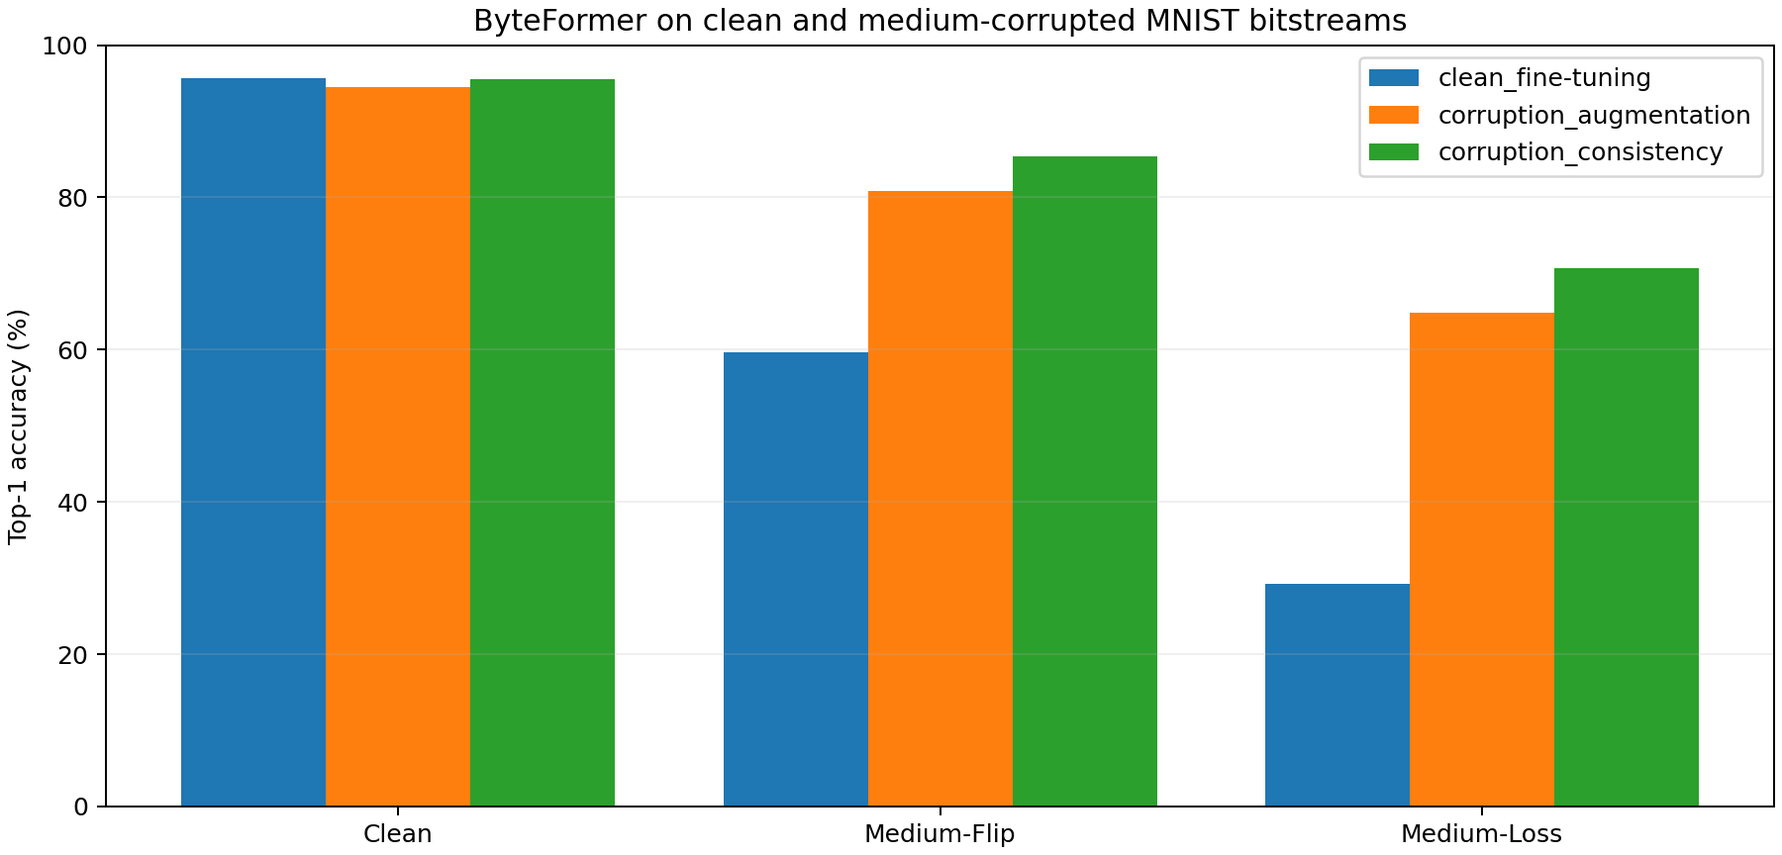
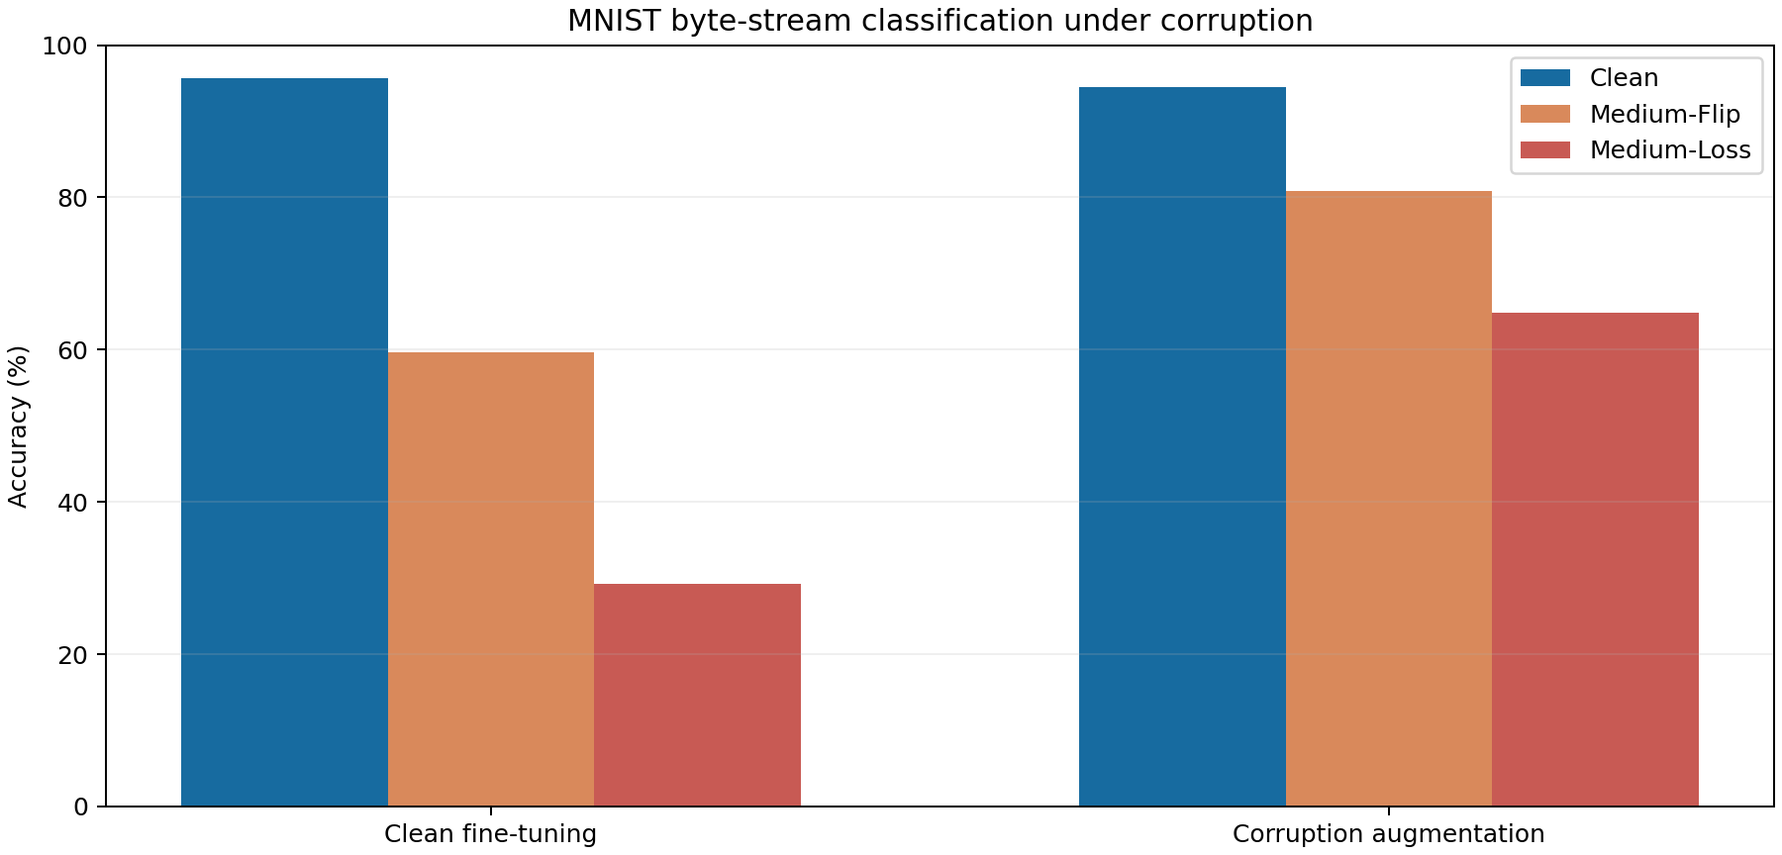
Remove consistency bonus experiment

diff --git a/tools/build_slides.py b/tools/build_slides.py
@@ -289,17 +289,23 @@ def main():
     rect(s,7.02,4.31,5.18,1.72,LIGHT,rounded=True)
     text(s,7.24,4.47,4.74,1.38,'比较内容\n· 验证集准确率与训练时间\n· 损失曲线和收敛速度\n· 参数变化带来的收益与代价',17)
     text(s,.9,6.30,11.35,.4,'报告中列出两次设置及结果，并说明比较结论。',16,GRAY)
-    # 16. AutoDL and common problems combined.
-    s=d.slide('15 AutoDL运行与常见问题')
-    codebox(s,.78,1.94,6.13,3.55,f'cd /root/autodl-tmp\ngit clone {REPO}.git\ncd byteformer-mnist-course\npython -m pip install -r requirements.txt\npython prepare.py\npython train_course_subset.py --method clean \\\n  --epochs "$EPOCHS" --batch-size "$BATCH_SIZE" \\\n  --clean-augmentations --output outputs/course_clean',12)
-    problems=[('没有使用GPU','检查Kaggle加速器或AutoDL实例'),('缺少Python包','重新安装requirements.txt'),('显存不足','减小batch size并记录实际值'),('输出目录已有文件','改用新的output目录')]
+    # 16. Common environment and runtime problems.
+    s=d.slide('15 运行中的常见问题','下面的问题在环境部署和运行时较常见。')
+    problems=[
+        ('Python 命令找不到','安装 Python 3.9—3.12，\n重新打开终端后再运行。'),
+        ('找不到 torch','先安装 PyTorch，\n再执行 requirements.txt。'),
+        ('依赖安装失败','在项目目录重新运行\npython -m pip install -r requirements.txt'),
+        ('GPU 未被识别','检查 CUDA；没有 GPU 时，\n程序会自动使用 CPU。'),
+        ('权重下载失败','检查网络连接，\n重新运行 python prepare.py。'),
+        ('显存或内存不足','减小 batch size，\n关闭其他占用资源的程序。'),
+    ]
     for i,(heading,body) in enumerate(problems):
-        y=2.0+i*.91
-        rect(s,7.25,y,5.0,.75,LIGHT,rounded=True)
-        text(s,7.43,y+.11,1.78,.3,heading,16,BLUE,True)
-        text(s,9.17,y+.11,2.88,.43,body,15)
-    text(s,.88,5.80,6.05,.79,'运行前在Terminal中设置EPOCHS和BATCH_SIZE；\n实验结束后下载outputs并在控制台关机。',17,GRAY)
-    link(s,7.34,6.00,4.8,'AutoDL官方快速开始','https://www.autodl.com/docs/quick_start/',16)
+        x=.78+(i%2)*6.17; y=2.04+(i//2)*1.04
+        rect(s,x,y,5.78,.83,LIGHT,rounded=True)
+        text(s,x+.20,y+.14,2.03,.28,heading,17,BLUE,True)
+        text(s,x+2.28,y+.12,3.22,.54,body,14)
+    rect(s,.78,5.57,11.78,.83,'DDEBF3',rounded=True)
+    text(s,1.00,5.72,11.34,.46,'环境自检：python --version    /    python -c "import torch; print(torch.__version__); print(torch.cuda.is_available())"\n先完成环境自检，再开始训练；遇到报错时保留完整错误信息。',14,BLUE)
     # 17. Submission requirements.
     s=d.slide('16 实验结果与报告提交')
     text(s,.86,1.98,6.03,3.71,'① 保存训练曲线和测试结果。\n② 完成一次参数对比。\n③ 展示单图预测或典型错例。\n④ 填写实验环境、命令、参数与结果分析。\n⑤ 打包代码、结果图和实验报告。\n\n数据集和Python环境不需要重复提交。',20)
@@ -311,25 +317,29 @@ def main():
         text(s,7.29,y+.05,4.75,.35,item,17)
     text(s,.9,6.31,11.43,.57,'报告分别列出训练集、验证集和测试集的用途与结果。',17,RED)
     # 18. Bonus corrupted-bitstream task with concrete directions.
-    s=d.slide('17 加分项：损坏码流分类','课程提供与干净测试集对应的损坏测试数据，共包含以下两种基本损坏。')
+    s=d.slide('17 加分项：损坏码流分类','以下内容均为加分项；课程提供与干净测试集对应的两种损坏测试数据。')
     rect(s,1.05,2.13,5.18,1.50,'F6E5E1',rounded=True)
     text(s,1.24,2.31,4.80,.39,'Bit flip｜比特翻转',21,RED,True,PP_ALIGN.CENTER)
     text(s,1.25,2.86,4.78,.56,'翻转选中字节的1位（长度不变）\n10100110 → 10100010',14,INK,align=PP_ALIGN.CENTER)
     rect(s,7.10,2.13,5.18,1.50,'F4EAD8',rounded=True)
     text(s,7.29,2.31,4.80,.39,'Byte loss｜字节丢失',21,'A46A25',True,PP_ALIGN.CENTER)
     text(s,7.30,2.86,4.78,.56,'删除字节，后续字节前移\nFF D8 A1 3C → FF D8 3C',14,INK,align=PP_ALIGN.CENTER)
-    text(s,.83,3.93,2.75,.4,'可以尝试的方向',21,BLUE,True)
-    directions=[('① 结果分析','比较Clean、Flip、Loss，观察哪类损坏影响更大。'),('② 损坏增强','训练时随机加入bit flip和byte loss样本。'),('③ 一致性约束','让同一图像的干净码流与损坏码流输出接近。')]
+    text(s,.88,3.78,2.65,.28,'加分评估',15,BLUE,True)
+    codebox(s,.82,4.02,5.73,.92,'python evaluate_course_corruption.py \\\n+  --checkpoint outputs/course_clean/best.pt \\\n+  --output outputs/course_clean_eval',10)
+    text(s,6.83,3.78,2.65,.28,'加分：损坏增强训练',15,BLUE,True)
+    codebox(s,6.77,4.02,5.73,.92,'BONUS_EPOCHS=你的轮数; BONUS_BATCH_SIZE=你的batch大小\npython train_course_subset.py --method augmentation \\\n  --epochs "$BONUS_EPOCHS" --batch-size "$BONUS_BATCH_SIZE" \\\n  --clean-augmentations --output outputs/course_corruption_aug',9)
+    text(s,.83,5.12,2.75,.3,'加分内容',19,BLUE,True)
+    directions=[('① 损坏增强','训练时随机加入 bit flip 和 byte loss 样本。'),('② 损坏测试','评估脚本自动输出 Clean、Medium-Flip、Medium-Loss。')]
     for i,(heading,body) in enumerate(directions):
-        x=.82+i*4.02
-        rect(s,x,4.42,3.72,1.18,LIGHT,rounded=True)
-        text(s,x+.14,4.57,3.44,.33,heading,17,BLUE,True)
-        text(s,x+.14,4.96,3.44,.52,body,14)
-    text(s,.86,5.91,2.22,.35,'参考资料：',15,GRAY,True)
-    link(s,2.25,5.89,2.55,'CBSU-ALLM','https://doi.org/10.1016/j.patcog.2026.114151',14)
-    link(s,4.65,5.89,2.25,'BRACE','https://arxiv.org/abs/2608.15695',14)
-    link(s,6.65,5.89,2.25,'BSCV','https://arxiv.org/abs/2309.13890',14)
-    text(s,.87,6.37,11.45,.34,'提交改进方法、训练设置以及三类测试结果；可自行组合其他增强或鲁棒训练方法。',15,GRAY)
+        x=.82+i*6.02
+        rect(s,x,5.48,5.72,.95,LIGHT,rounded=True)
+        text(s,x+.14,5.61,5.42,.27,heading,16,BLUE,True)
+        text(s,x+.14,5.93,5.42,.41,body,12.5)
+    text(s,.86,6.55,1.82,.3,'参考资料：',13,GRAY,True)
+    link(s,1.95,6.53,1.95,'CBSU-ALLM','https://doi.org/10.1016/j.patcog.2026.114151',13)
+    link(s,4.02,6.53,1.40,'BRACE','https://arxiv.org/abs/2608.15695',13)
+    link(s,5.58,6.53,1.40,'BSCV','https://arxiv.org/abs/2309.13890',13)
+    text(s,7.15,6.54,5.2,.3,'提交训练设置和三类测试结果。',13,GRAY)
     # 19. References and entry points.
     s=d.slide('18 配套材料与参考文献','实验步骤、命令和数据说明见课程仓库与Notebook。')
     sources=[

diff --git a/train_course_subset.py b/train_course_subset.py
@@ -71,15 +71,6 @@ def evaluate(model, loader, device, corrupt=None, seed=0):
             'correct': correct, 'samples': count}
 
 
-def symmetric_kl(a, b, temperature=2.0):
-    log_a = nn.functional.log_softmax(a / temperature, dim=1)
-    log_b = nn.functional.log_softmax(b / temperature, dim=1)
-    prob_a, prob_b = log_a.exp(), log_b.exp()
-    value = (nn.functional.kl_div(log_a, prob_b, reduction='batchmean') +
-             nn.functional.kl_div(log_b, prob_a, reduction='batchmean')) / 2
-    return value * temperature**2
-
-
 def save_curves(output, history):
     import matplotlib
     matplotlib.use('Agg')
@@ -106,7 +97,7 @@ def save_curves(output, history):
 
 def parser():
     result = argparse.ArgumentParser(description=__doc__)
-    result.add_argument('--method', choices=['clean', 'augmentation', 'consistency'],
+    result.add_argument('--method', choices=['clean', 'augmentation'],
                         default='clean')
     result.add_argument('--epochs', type=int, default=12)
     result.add_argument('--batch-size', type=int, default=32)
@@ -119,8 +110,6 @@ def parser():
     result.add_argument('--freeze-backbone-epochs', type=int, default=0)
     result.add_argument('--clean-augmentations', action='store_true',
                         help='sample valid rotated/shifted JPEG views during training')
-    result.add_argument('--consistency-weight', type=float, default=0.5)
-    result.add_argument('--feature-weight', type=float, default=0.1)
     result.add_argument('--seed', type=int, default=42)
     result.add_argument('--device', default='auto')
     result.add_argument('--threads', type=int, default=4)
@@ -209,26 +198,6 @@ def main():
                 logits = model(damaged.to(device))
                 loss = nn.functional.cross_entropy(
                     logits, labels, label_smoothing=args.label_smoothing)
-            else:
-                weak = corrupt_batch(clean, 'weak',
-                                     args.seed + epoch * 200000 + step * 2)
-                strong = corrupt_batch(clean, 'strong',
-                                       args.seed + epoch * 200000 + step * 2 + 1)
-                weak_features = model.forward_features(weak.to(device))
-                strong_features = model.forward_features(strong.to(device))
-                weak_logits = model.classifier(weak_features)
-                strong_logits = model.classifier(strong_features)
-                classification = (nn.functional.cross_entropy(
-                    weak_logits, labels, label_smoothing=args.label_smoothing) +
-                    nn.functional.cross_entropy(
-                        strong_logits, labels,
-                        label_smoothing=args.label_smoothing)) / 2
-                alignment = (1 - nn.functional.cosine_similarity(
-                    weak_features, strong_features, dim=1)).mean()
-                loss = (classification + args.consistency_weight *
-                        symmetric_kl(weak_logits, strong_logits) +
-                        args.feature_weight * alignment)
-                logits = (weak_logits + strong_logits) / 2
             if not torch.isfinite(loss):
                 raise RuntimeError('Non-finite training loss')
             loss.backward()

diff --git a/README.md b/README.md
@@ -137,7 +137,7 @@ python train_course_subset.py \
 - `Medium-Flip`：选中一个字节，随机翻转其中一位，码流长度不变。
 - `Medium-Loss`：删除选中的字节，后续字节前移。
 
-评估脚本会自动计算 Clean、Medium-Flip 和 Medium-Loss 三类准确率。基础任务只需完成干净测试集结果；下面两种训练方法属于加分项。
+评估脚本会自动计算 Clean、Medium-Flip 和 Medium-Loss 三类准确率。基础任务只需完成干净测试集结果；损坏增强训练属于加分项。
 
 ### 加分项一：损坏增强训练
 
@@ -158,27 +158,6 @@ python train_course_subset.py \
 python evaluate_course_corruption.py \
   --checkpoint "$AUG_OUTPUT/best.pt" \
   --output "${AUG_OUTPUT}_eval"
-```
-
-### 加分项二：一致性约束训练
-
-训练完成后自动评估三类测试集：
-
-```bash
-read -r -p "请输入训练轮数: " CONSISTENCY_EPOCHS
-read -r -p "请输入 batch size: " CONSISTENCY_BATCH_SIZE
-
-CONSISTENCY_OUTPUT=outputs/bonus_consistency
-
-python train_course_subset.py \
-  --method consistency \
-  --epochs "$CONSISTENCY_EPOCHS" \
-  --batch-size "$CONSISTENCY_BATCH_SIZE" \
-  --clean-augmentations \
-  --output "$CONSISTENCY_OUTPUT" && \
-python evaluate_course_corruption.py \
-  --checkpoint "$CONSISTENCY_OUTPUT/best.pt" \
-  --output "${CONSISTENCY_OUTPUT}_eval"
 ```
 
 背景与方法资料见 [加分项参考资料](research/04_bonus_corrupted_bitstream_references.md)，其中包括 CBSU-ALLM、BRACE、BSCV、ByteAction 等工作。
@@ -210,12 +189,42 @@ python prepare.py
 
 ## 提交内容
 
-1. 实验报告，写明环境、轮数、batch size、命令和数据划分。
-2. 基础训练与参数对比的 `metrics.json`、`history.csv` 和 `curves.png`。
-3. 独立测试结果、单图预测或典型错例。
-4. 对训练曲线、验证结果、测试结果和参数对比的分析。
+### 基础任务（必须提交，完成后即达标）
 
-Notebook 最后一格会把 JSON、CSV、PNG 和预测数组打包为 `byteformer_mnist_results.zip`。大型 checkpoint 不放入压缩包。
+请提交一个压缩包，命名为 `学号_姓名_码流图像分类.zip`，内容如下：
+
+```text
+学号_姓名_码流图像分类/
+├── 实验报告.pdf
+├── course_clean/
+│   ├── metrics.json
+│   ├── history.csv
+│   ├── curves.png
+│   └── prediction_single.png
+├── course_clean_eval/
+│   ├── evaluation.json
+│   ├── accuracy.csv
+│   └── accuracy.png
+├── comparison/
+│   ├── metrics.json
+│   ├── history.csv
+│   └── curves.png
+```
+
+实验报告至少写明：运行环境、训练轮数、batch size、实际命令、训练/验证/测试划分、曲线变化、参数对比、单图预测和一个错例分析。
+
+### 加分项（完成哪一项，就在压缩包中加入对应结果目录）
+
+```text
+bonus_augmentation/
+bonus_augmentation_eval/
+```
+
+报告中填写 Clean、Medium-Flip、Medium-Loss 三类准确率，并写明使用的加分方法。
+
+### 不需要提交
+
+不需要提交整份数据集、`.venv/`、`best.pt` 等大型模型文件、完整 GitHub 仓库或课程 PPT。Notebook 最后一格生成的 `byteformer_mnist_results.zip` 只包含实验结果，仍需与实验报告一起整理到上述压缩包中。
 
 ## 参考文献
 

diff --git a/research/04_bonus_corrupted_bitstream_references.md b/research/04_bonus_corrupted_bitstream_references.md
@@ -7,8 +7,7 @@
 1. 使用课程提供的 Medium-Flip、Medium-Loss 测试集评估干净模型。
 2. 比较两种损坏下的准确率，说明 bit flip 与 byte loss 的区别。
 3. 在训练阶段加入随机码流损坏增强。
-4. 对同一样本的轻度和重度损坏视图加入预测一致性或特征对齐约束。
-5. 与干净训练基线比较干净准确率、受损平均准确率和提升幅度。
+4. 与干净训练基线比较干净准确率、受损平均准确率和提升幅度。
 
 ## 2. 主要参考工作
 
@@ -17,7 +16,7 @@
 | CBSU-ALLM | 受损图像码流语义理解 | 图像码流受损后绕过传统解码流程进行语义分析 | *Corrupted bitstream semantic understanding by adaptive-modal large language models*，[DOI](https://doi.org/10.1016/j.patcog.2026.114151) |
 | BRACE | 受损图像码流动作识别 | RBCS 四参数损坏模型 `(S, P, p_f, q)`；bit flip、byte loss 与不同强度设置 | *Bitstream Action Recognition is Byte Modeling*，[论文](https://arxiv.org/abs/2608.15695) |
 | BSCV | 受损视频恢复 | 视频码流中的连续片段丢失、损坏位置与长度设置 | *Bitstream-Corrupted Video Recovery: A Novel Benchmark Dataset and Method*，[论文](https://arxiv.org/abs/2309.13890)，[代码](https://github.com/LIUTIGHE/BSCV-Dataset) |
-| ByteAction | 受损图像码流动作识别 | 双损坏视图、码流模式增强、预测一致性训练 | *ByteAction: Byte-space Action Recognition Foundation Model*，[论文](https://arxiv.org/abs/2608.22760) |
+| ByteAction | 受损图像码流动作识别 | 双损坏视图、码流模式增强 | *ByteAction: Byte-space Action Recognition Foundation Model*，[论文](https://arxiv.org/abs/2608.22760) |
 | Cibic | 受损图像码流描述 | 标准解码失败时直接从 JPEG 字节生成语义描述 | *Cibic: Pixel-free foundation model for robust corrupted image bitstream captioning*，[DOI](https://doi.org/10.1016/j.patcog.2026.114238) |
 | VUB | 视频码流内容理解 | 长视频码流分块建模和跨编码格式知识蒸馏 | *Learn to Understand Video from Bitstream Modeling and Distillation*，本地稿件 |
 
@@ -38,4 +37,4 @@
 - Medium-Loss：只执行 byte loss；
 - 固定 `S=64`、`P=0.55`、`q=0.55`，期望受损字节比例约为 30.25%。
 
-课程实测中，只用干净码流训练的 ByteFormer 在干净测试集达到 95.6%，在两种 Medium 损坏上的平均准确率可用于观察模型鲁棒性。加入损坏一致性训练后，再比较干净准确率和两种受损准确率。完整结果见 [experiment_results.md](experiment_results.md)。
+课程实测中，只用干净码流训练的 ByteFormer 在干净测试集达到 95.6%，在两种 Medium 损坏上的平均准确率可用于观察模型鲁棒性。加入损坏增强后，再比较干净准确率和两种受损准确率。完整结果见 [experiment_results.md](experiment_results.md)。

diff --git a/docs/student_report_template.md b/docs/student_report_template.md
@@ -106,7 +106,7 @@
 | Medium-Flip | | |
 | Medium-Loss | | |
 
-改进方法：损坏增强 / 一致性约束 / 特征对齐 / 其他（写明）：
+改进方法：损坏增强：
 
 ## 7. 问题与解决
 
@@ -114,11 +114,25 @@
 | --- | --- | --- |
 | | | |
 
-## 8. 提交检查
+## 8. 最终提交清单
 
-- [ ] 记录了实际环境、数据量和参数。
-- [ ] 指标来自自己的 `metrics.json` 与 `history.csv`，验证和测试没有混写。
-- [ ] 两次实验分别保存在不同目录，原始结果未被覆盖。
-- [ ] 附上要求的曲线、测试结果、预测图和错例证据。
-- [ ] 没有提交 `.venv/`、整份数据集或不需要的大型模型文件。
-- [ ] 写明了未完成的部分和使用的外部帮助。
+请将文件整理为 `学号_姓名_码流图像分类.zip`。基础任务必须包含：
+
+- [ ] `实验报告.pdf`（或教师指定格式的报告文件）。
+- [ ] `course_clean/metrics.json`、`history.csv`、`curves.png` 和 `prediction_single.png`。
+- [ ] `course_clean_eval/evaluation.json`、`accuracy.csv` 和 `accuracy.png`。
+- [ ] `comparison/metrics.json`、`history.csv` 和 `curves.png`。
+- [ ] 报告中填写实际环境、数据划分、参数、命令、验证结果、测试结果、参数对比和错例。
+
+如果完成加分项，再加入对应的完整目录：
+
+- [ ] `bonus_augmentation/` 与 `bonus_augmentation_eval/`。
+- [ ] 报告中填写 Clean、Medium-Flip、Medium-Loss 三类准确率和所用方法。
+
+不要提交：
+
+- [ ] 整份 MNIST 数据集、`.venv/`、完整 GitHub 仓库或课程 PPT。
+- [ ] `best.pt` 等大型模型文件，除非教师另有要求。
+
+- [ ] 所有指标来自自己的输出文件，验证集和测试集没有混写。
+- [ ] 如果有未完成项目，在报告中直接注明。

diff --git a/research/03_dataset_and_experiment_protocol.md b/research/03_dataset_and_experiment_protocol.md
@@ -63,19 +63,9 @@ bit flip 对被选中的字节随机翻转一个 bit，保持码流长度；byte
 
 训练时在线产生 weak 或 strong 损坏视图，并保留一部分干净输入。损坏类型在 bit flip 和 byte loss 之间采样。最佳模型按干净验证、Medium-Flip 验证和 Medium-Loss 验证的平均值选择。
 
-### C. Corruption consistency
-
-同一干净样本生成 weak 和 strong 两个损坏视图，同时优化：
-
-- 两个视图各自的分类交叉熵；
-- 两个预测分布之间的双向 KL 散度；
-- 两个全局特征之间的余弦距离。
-
-该方案对应“同一图像即使码流损坏方式不同，类别语义应保持一致”的假设。
-
 ## 4. 训练与评估命令
 
-三个方法使用相同的数据、预训练参数、batch size 和随机种子。训练轮数属于实验设置，可根据验证曲线继续调整，不写成课程固定要求。
+两种方法使用相同的数据、预训练参数、batch size 和随机种子。训练轮数属于实验设置，可根据验证曲线继续调整，不写成课程固定要求。
 
 ```bash
 python train_course_subset.py --method clean \
@@ -85,10 +75,6 @@ python train_course_subset.py --method clean \
 python train_course_subset.py --method augmentation \
   --epochs 12 --batch-size 32 --clean-augmentations \
   --output outputs/subset_augmentation
-
-python train_course_subset.py --method consistency \
-  --epochs 12 --batch-size 32 --clean-augmentations \
-  --output outputs/subset_consistency
 ```
 
 分别在干净测试和两种固定 Medium 测试集上评估：

diff --git a/research/experiment_results.md b/research/experiment_results.md
@@ -6,11 +6,10 @@
 | --- | ---: | ---: | ---: | ---: | ---: |
 | clean_fine-tuning | 95.6% | 59.6% | 29.3% | 44.5% | +0.0 个百分点 |
 | corruption_augmentation | 94.5% | 80.8% | 64.8% | 72.8% | +28.3 个百分点 |
-| corruption_consistency | 95.5% | 85.4% | 70.7% | 78.0% | +33.6 个百分点 |
 
 只用正常 JPEG 训练时，干净测试准确率为 95.6%，两种 Medium 损坏的平均准确率降到 44.5%，下降 51.1 个百分点。
 
-corruption_consistency 的受损平均准确率为 78.0%，相对纯干净训练提高 33.6 个百分点；干净测试准确率为 95.5%。两种损坏中 byte loss 通常更困难，因为删除字节会改变后续序列位置。
+损坏增强模型的受损平均准确率为 72.8%，相对纯干净训练提高 28.3 个百分点；干净测试准确率为 94.5%。两种损坏中 byte loss 通常更困难，因为删除字节会改变后续序列位置。
 
 ![准确率对比](results/summary.png)
 

diff --git a/docs/run_record.md b/docs/run_record.md
@@ -18,7 +18,7 @@ python evaluate_course_corruption.py --checkpoint outputs/course_clean/best.pt -
 python predict.py --checkpoint outputs/course_clean/best.pt --index 0
 ```
 
-训练、验证、独立测试、单图预测、损坏增强和一致性训练流程均已完成验证。基础干净训练的测试准确率达到 95% 以上；损坏训练的详细对比见 [实验结果](../research/experiment_results.md)。
+训练、验证、独立测试、单图预测和损坏增强流程均已完成验证。基础干净训练的测试准确率达到 95% 以上；损坏训练的详细对比见 [实验结果](../research/experiment_results.md)。
 
 ## 输出
 

diff --git a/docs/teacher_guide.md b/docs/teacher_guide.md
@@ -68,7 +68,7 @@ python train_course_subset.py --method clean --epochs "$COMPARISON_EPOCHS" --bat
 
 完成 MNIST 规定任务并提交实验报告，即达标及格。报告包含环境、参数、曲线、评估结果、一次参数对比和错例分析。
 
-加分项使用课程提供的损坏测试集。学生比较 bit flip 和 byte loss 的影响，并可尝试损坏增强、预测一致性或特征对齐，提交三类测试结果与分析。
+加分项使用课程提供的损坏测试集。学生比较 bit flip 和 byte loss 的影响，并可尝试损坏增强，提交三类测试结果与简要说明。
 
 ## 课程材料
 

diff --git a/research/README.md b/research/README.md
@@ -22,6 +22,6 @@
 
 1. 只用干净 JPEG 码流微调 ByteFormer，能否完成 MNIST 分类？
 2. 测试码流发生 bit flip 或 byte loss 后，分类准确率会下降多少？
-3. 在训练中加入码流损坏增强，以及损坏前后预测与特征的一致性约束，能否提高鲁棒性？
+3. 在训练中加入码流损坏增强，能否提高模型对损坏码流的鲁棒性？
 
 数据采用固定索引、固定随机种子和固定损坏参数。训练集用于更新参数，验证集用于选择模型，测试集只在模型确定后用于最终评估。

diff --git a/research/05_ppt_content_structure.md b/research/05_ppt_content_structure.md
@@ -17,7 +17,7 @@
 
 1. 课程提供的 bit flip 和 byte loss 损坏测试集。
 2. 干净训练模型在受损测试上的准确率下降。
-3. 损坏增强、预测一致性和特征对齐等可选改进。
+3. 损坏增强这一可选改进。
 4. CBSU-ALLM、BRACE、BSCV、ByteAction、Cibic、VUB 作为辅助参考资料。
 
 字节模型介绍页不放 CBSU-ALLM、BSCV 或 BRACE；这些工作只在损坏码流加分项页面出现。
